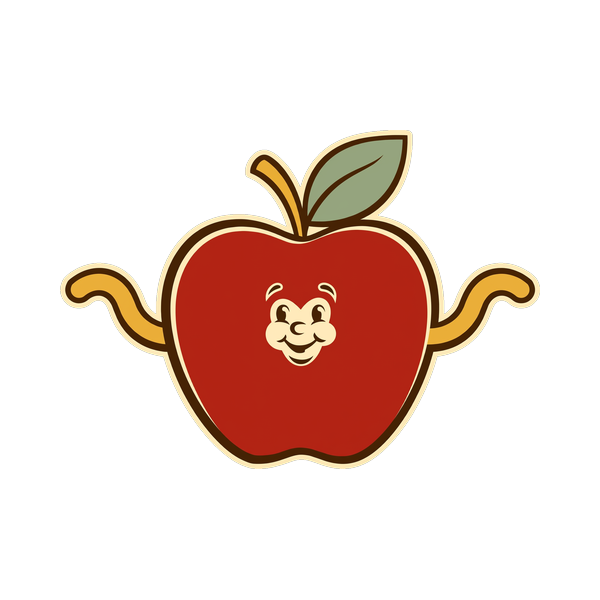
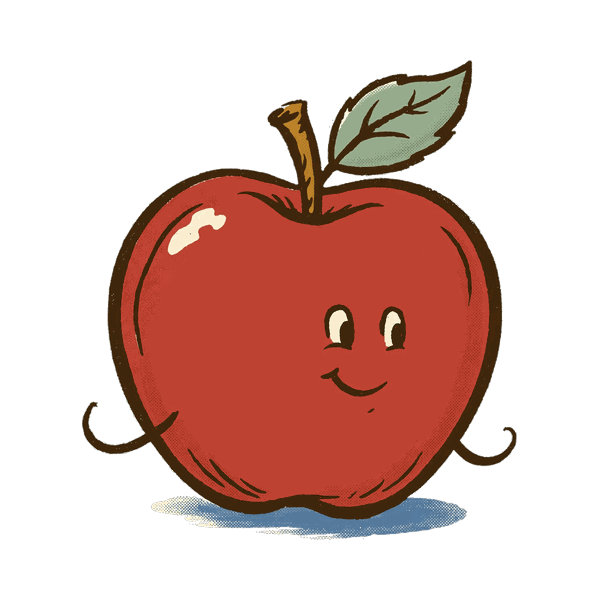
Redesign apple and moon samples closer to approved sheet (#323)
Hand-inked print treatment, small faces drawn on the object, no sticker
halo or inner face panel. Both still read at 52pt and in grayscale;
sheet.png rebuilt with the same checks.

diff --git a/docs/art-prompts.md b/docs/art-prompts.md
@@ -17,10 +17,10 @@ model/version that the tool does not expose. See [style](design/art-style.md) an
 | Slug | Prompt | Date | Tool / model / version |
 |---|---|---|---|
 | dog (sample, #323) | [Prompt](design/art-samples/prompts/dog.prompt.txt) | 2026-10-28 | Muse built-in image generation (`muse.image_generation`); model/version not exposed |
-| apple (sample, #323) | [Prompt](design/art-samples/prompts/apple.prompt.txt) | 2026-10-28 | Muse built-in image generation (`muse.image_generation`); model/version not exposed |
+| apple (sample, #323; revised 2026-10-28 to match approved sheet) | [Prompt](design/art-samples/prompts/apple.prompt.txt) | 2026-10-28 | Muse built-in image generation (`muse.image_generation`); model/version not exposed |
 | teapot (sample, #323) | [Prompt](design/art-samples/prompts/teapot.prompt.txt) | 2026-10-28 | Muse built-in image generation (`muse.image_generation`); model/version not exposed |
 | sunflower (sample, #323) | [Prompt](design/art-samples/prompts/sunflower.prompt.txt) | 2026-10-28 | Muse built-in image generation (`muse.image_generation`); model/version not exposed |
 | key (sample, #323) | [Prompt](design/art-samples/prompts/key.prompt.txt) | 2026-10-28 | Muse built-in image generation (`muse.image_generation`); model/version not exposed |
 | sailboat (sample, #323) | [Prompt](design/art-samples/prompts/sailboat.prompt.txt) | 2026-10-28 | Muse built-in image generation (`muse.image_generation`); model/version not exposed |
 | violin (sample, #323) | [Prompt](design/art-samples/prompts/violin.prompt.txt) | 2026-10-28 | Muse built-in image generation (`muse.image_generation`); model/version not exposed |
-| moon (sample, #323) | [Prompt](design/art-samples/prompts/moon.prompt.txt) | 2026-10-28 | Muse built-in image generation (`muse.image_generation`); model/version not exposed |
+| moon (sample, #323; revised 2026-10-28 to match approved sheet) | [Prompt](design/art-samples/prompts/moon.prompt.txt) | 2026-10-28 | Muse built-in image generation (`muse.image_generation`); model/version not exposed |
